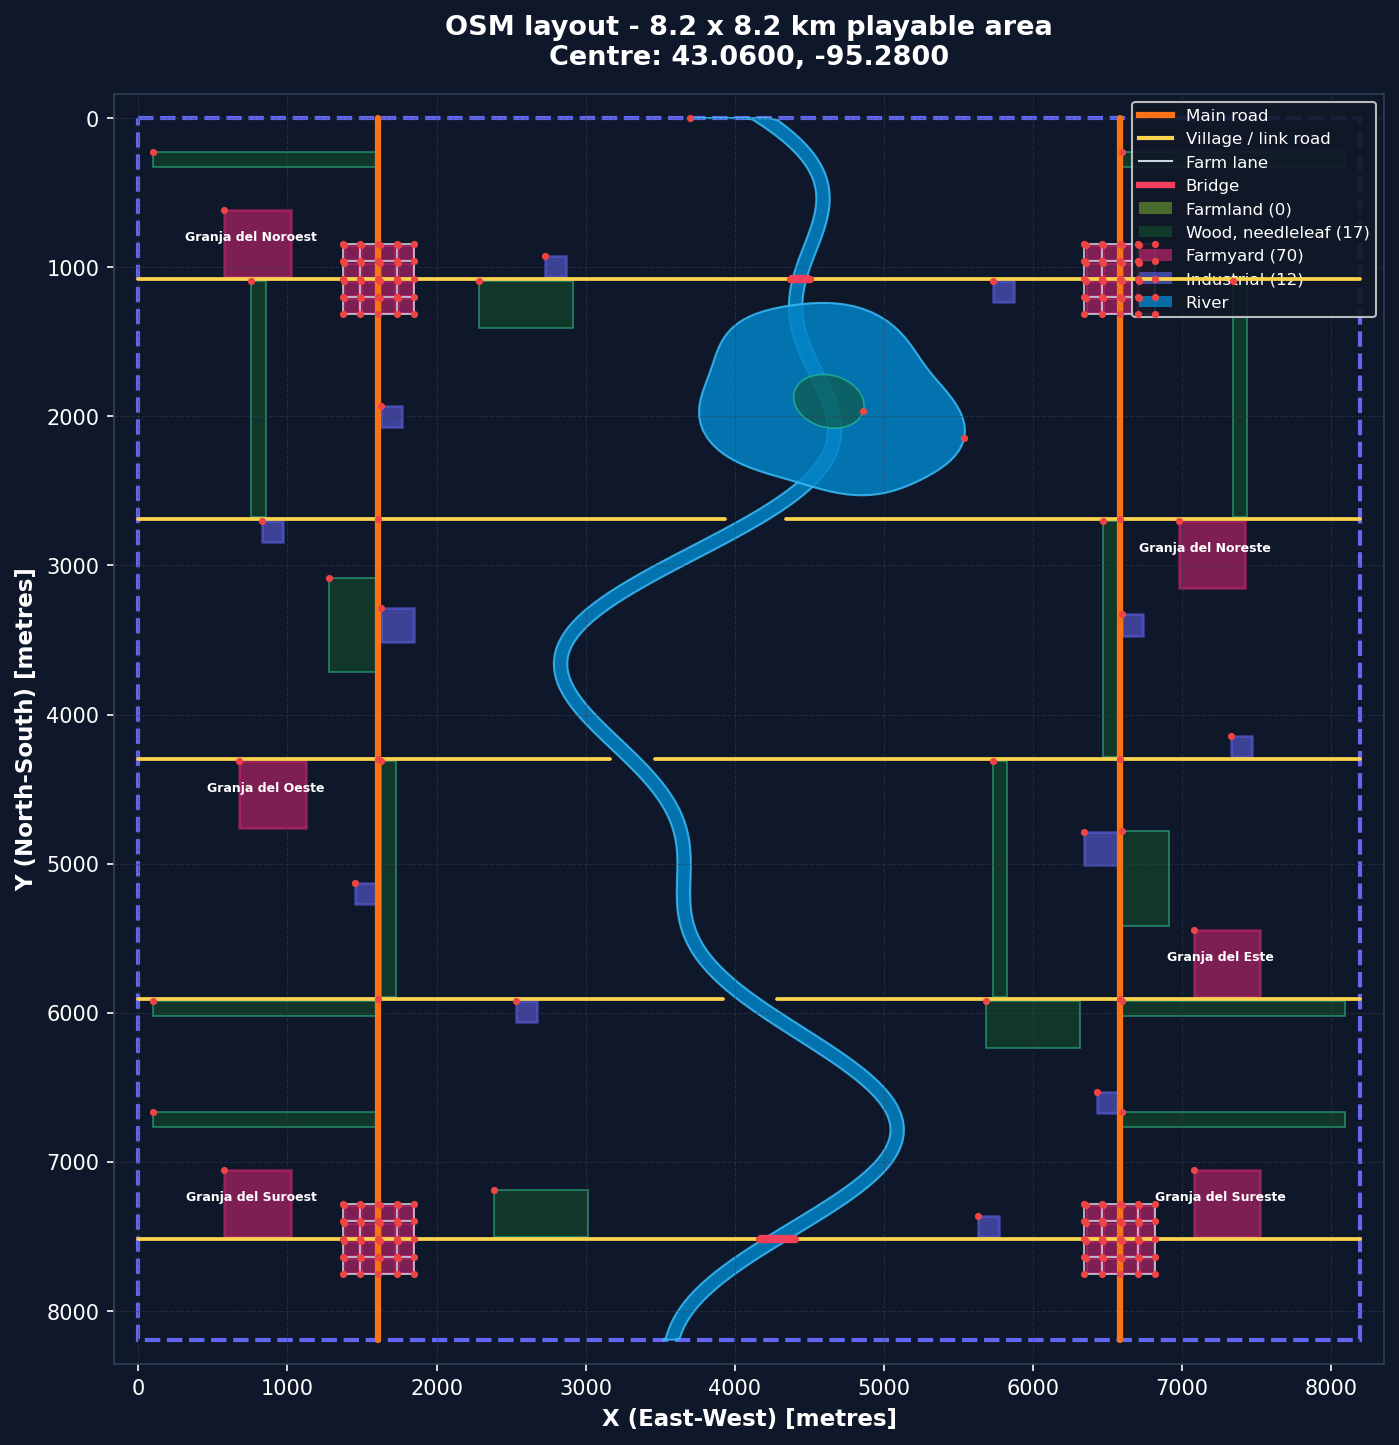
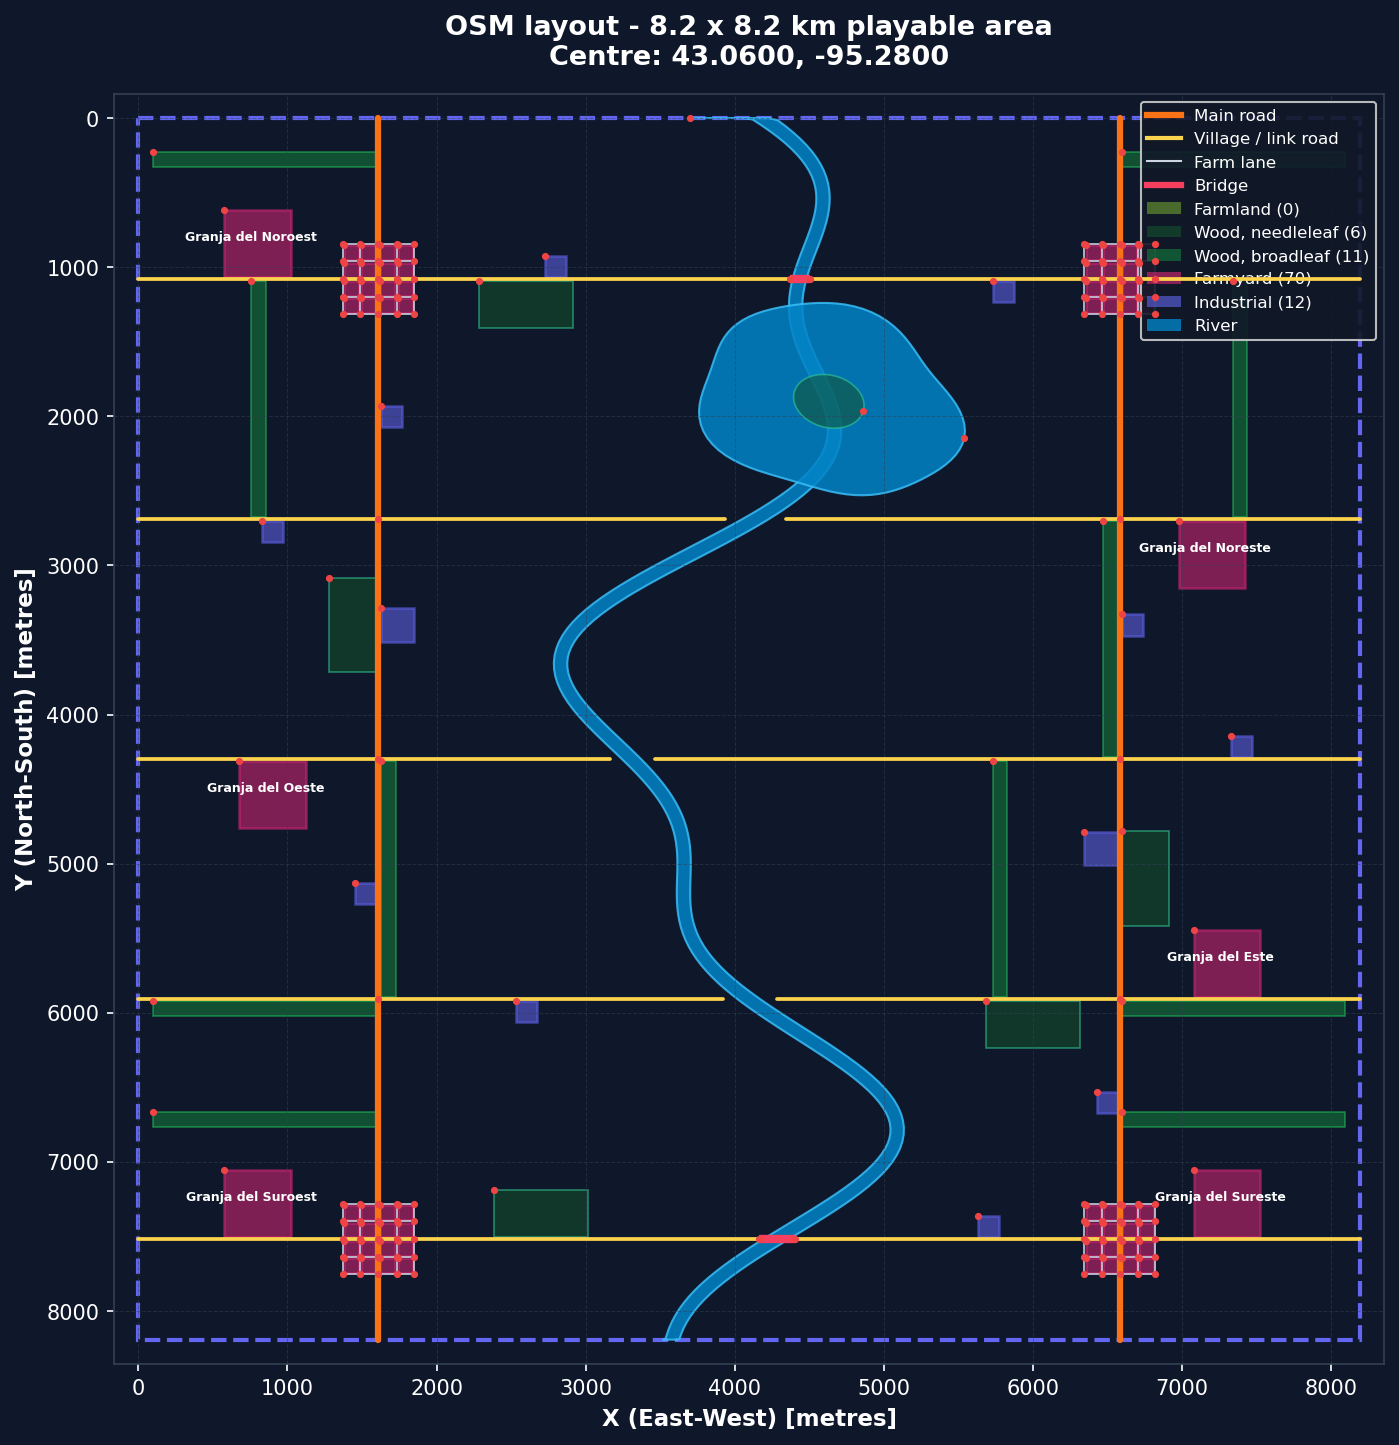
Rompe vientos como broadleaved

diff --git a/map_layout.py b/map_layout.py
@@ -759,7 +759,9 @@ WOOD_ASPECT = 2.0             # long side along the road, so it reads as a belt
 # closed vocabulary in RENDERED_TAGS is, and `natural=wood` is what gets these rings on
 # the map - but it is not dead weight either: both renderers colour a needleleaf wood
 # apart from a broadleaf one, the same way `visualize_osm` tells an industrial apron from
-# a farmyard. A tag no renderer reads is the one thing not worth emitting.
+# a farmyard. A tag no renderer reads is the one thing not worth emitting. The woods and
+# the island are the conifer; the shelterbelts are hardwood (`SHELTER_LEAF_TYPE`), and
+# that difference is the whole reason this tag earns its place on the ring.
 WOOD_LEAF_TYPE = 'needleleaved'
 # Same table shape as the yards: which road, how far along, which side. The setback is
 # the shared roadside one, measured from the edge of the running surface - so the trees
@@ -809,7 +811,7 @@ def wood_area(wid, name, road_id, station, side):
 
 
 # --- the shelterbelts -------------------------------------------------------------
-# Rompevientos: long narrow strips of conifer along the trunk roads, a hundred metres
+# Rompevientos: long narrow strips of hardwood along the trunk roads, a hundred metres
 # across and a full section of frontage long.
 #
 # The length is not a choice. A belt runs from one cross road to the next, held off each
@@ -826,6 +828,12 @@ def wood_area(wid, name, road_id, station, side):
 # these are trunk-road belts, and `validate()` says so rather than leaving it to whoever
 # adds the next one to rediscover.
 SHELTER_W_M = 100.0
+# What is planted in them, and it is deliberately not what is in the woods. A windbreak
+# on this survey is a row of hardwood - the trees a farmer puts on a field boundary - and
+# the woods are conifer, so the two read apart in both renderers instead of being one
+# undifferentiated green. It is the same tag doing the same job it does on a wood; the
+# value is the only thing that differs.
+SHELTER_LEAF_TYPE = 'broadleaved'
 SHELTER_LEN_M = MILE_M - 2.0 * (ROAD_SECTION['half_width_m'] + ROADSIDE_SETBACK_M)
 
 # The north-south lines a belt may run on. Two kinds, and both of them are lines the
@@ -914,7 +922,7 @@ def shelter_area_ew(bid, name, band, row):
             'area_ha': SHELTER_W_M * SHELTER_LEN_EW_M / 10000.0,
             'centre': ((x0 + x1) / 2.0, SHELTER_ROWS[row]),
             'ring': shelter_ring_ew(band, row),
-            'tags': {'natural': 'wood', 'leaf_type': WOOD_LEAF_TYPE}}
+            'tags': {'natural': 'wood', 'leaf_type': SHELTER_LEAF_TYPE}}
 
 
 # (id, name, line, which section it covers). The section index `k` is the stretch between
@@ -956,7 +964,7 @@ def shelter_area(bid, name, line, gap):
             'area_ha': SHELTER_W_M * SHELTER_LEN_M / 10000.0,
             'centre': (SHELTER_LINES[line],
                        (PLSS_EW_Y[gap] + PLSS_EW_Y[gap + 1]) / 2.0), 'ring': ring,
-            'tags': {'natural': 'wood', 'leaf_type': WOOD_LEAF_TYPE}}
+            'tags': {'natural': 'wood', 'leaf_type': SHELTER_LEAF_TYPE}}
 
 
 # --- the OSM vocabulary -----------------------------------------------------------
@@ -1709,11 +1717,17 @@ def validate():
     want = len(WOOD_SITES) + len(SHELTER_SITES) + len(SHELTER_EW_SITES)
     if len(woods) != want:
         bad.append(f"plantings: {len(woods)} built from {want} sites")
+    # Every ring drawn as a wood carries a leaf type, and which one is not free: a belt
+    # is a hardwood windbreak on a field boundary and a wood - the island included - is
+    # conifer. Both renderers colour the two apart, so a ring with the wrong value is a
+    # planting drawn as the other kind rather than a tag nobody reads.
     for a in AREAS:
-        if a['tags'].get('natural') == 'wood' \
-                and a['tags'].get('leaf_type') != WOOD_LEAF_TYPE:
-            bad.append(f"{a['id']}: a wood with no leaf type, or the wrong one - every "
-                       f"wood on this map is {WOOD_LEAF_TYPE}")
+        if a['tags'].get('natural') != 'wood':
+            continue
+        want_leaf = SHELTER_LEAF_TYPE if ('line' in a or 'band' in a) else WOOD_LEAF_TYPE
+        if a['tags'].get('leaf_type') != want_leaf:
+            bad.append(f"{a['id']}: leaf type "
+                       f"{a['tags'].get('leaf_type')!r}, not {want_leaf!r}")
     # Belts come in two orientations and neither of them has its length chosen: a
     # north-south belt spans one section between two cross roads, and a transversal one
     # spans the band a trunk road and the map edge leave. Both are the mile less two

diff --git a/osm_generator/visualize_osm.py b/osm_generator/visualize_osm.py
@@ -52,7 +52,8 @@ def main():
     ax.add_patch(patches.Rectangle((0, 0), ms.PLAYABLE_M, ms.PLAYABLE_M, fill=False,
                                    edgecolor='#6366F1', linewidth=2.0, linestyle='--'))
 
-    counts = {'farmland': 0, 'wood': 0, 'farmyard': 0, 'industry': 0, 'water': 0}
+    counts = {'farmland': 0, 'wood': 0, 'belt': 0, 'farmyard': 0, 'industry': 0,
+              'water': 0}
     for way in ways:
         coords = way['coords']
         if len(coords) < 2:
@@ -71,7 +72,7 @@ def main():
             ax.add_patch(patches.Polygon(
                 coords, closed=True, facecolor='#14532D' if needle else '#15803D',
                 edgecolor='#34D399' if needle else '#22C55E', alpha=0.55, linewidth=0.8))
-            counts['wood'] += 1
+            counts['wood' if needle else 'belt'] += 1
         elif tags.get('natural') == 'water':
             ax.add_patch(patches.Polygon(coords, closed=True, facecolor='#0284C7',
                                          edgecolor='#38BDF8', alpha=0.85, linewidth=1.0))
@@ -133,6 +134,8 @@ def main():
         patches.Patch(facecolor='#A3E635', alpha=0.4, label=f"Farmland ({counts['farmland']})"),
         patches.Patch(facecolor='#14532D', alpha=0.6,
                       label=f"Wood, needleleaf ({counts['wood']})"),
+        patches.Patch(facecolor='#15803D', alpha=0.6,
+                      label=f"Wood, broadleaf ({counts['belt']})"),
         patches.Patch(facecolor='#DB2777', alpha=0.6, label=f"Farmyard ({counts['farmyard']})"),
         patches.Patch(facecolor='#6366F1', alpha=0.6,
                       label=f"Industrial ({counts['industry']})"),
@@ -150,6 +153,7 @@ def main():
     plt.close()
     print(f"[+] Saved visualization to '{output_png}'  "
           f"({counts['farmland']} fields, {counts['wood']} woods, "
+          f"{counts['belt']} broadleaf, "
           f"{counts['farmyard']} farmyards, {counts['industry']} industrial)")
 
 

diff --git a/CLAUDE.md b/CLAUDE.md
@@ -98,8 +98,9 @@ deep by `aspect` times that - with no rounding anywhere in it. They are the firs
 the map that is *only* vectors: nobody levels ground to grow trees on, so a wood is an
 `AREAS` ring with no pad, no feather and no drain, and the heightmap does not change when
 one is added. Every wood on the map, the island included, is tagged
-`leaf_type=needleleaved`, and both renderers colour a conifer wood apart from a broadleaf
-one so the tag is not dead weight.
+`leaf_type=needleleaved` and every shelterbelt `leaf_type=broadleaved` - a windbreak on a
+field boundary is hardwood - and both renderers colour a conifer wood apart from a
+broadleaf one, so the tag is not dead weight and the two kinds of planting read apart.
 
 The one rule a wood has that a yard does not is that the 10 m clearance is held against
 **every** alignment on the map and not only the road it hangs off. A road through the
@@ -541,8 +542,8 @@ centreline instead of the kerb, a yard that is not square or not its stated area
 corner has landed inside the water's valley, one standing on the verge of the class of road
 it is on, one another road runs through, and a farm that has wandered onto a trunk road.
 
-The shelterbelts are `SHELTER_W_M` - the only free number in them, both lengths coming out
-of `MILE_M` and a clearance - with `SHELTER_LINES`/`SHELTER_SITES` for the north-south ones
+The shelterbelts are `SHELTER_W_M` and `SHELTER_LEAF_TYPE` - the only free numbers in
+them, both lengths coming out of `MILE_M` and a clearance - with `SHELTER_LINES`/`SHELTER_SITES` for the north-south ones
 and `SHELTER_BANDS`/`SHELTER_ROWS`/`SHELTER_EW_SITES` for the transversal. `validate()`
 holds the width and the length against the drawn ring, and holds each belt to the
 orientation its length was derived for.
